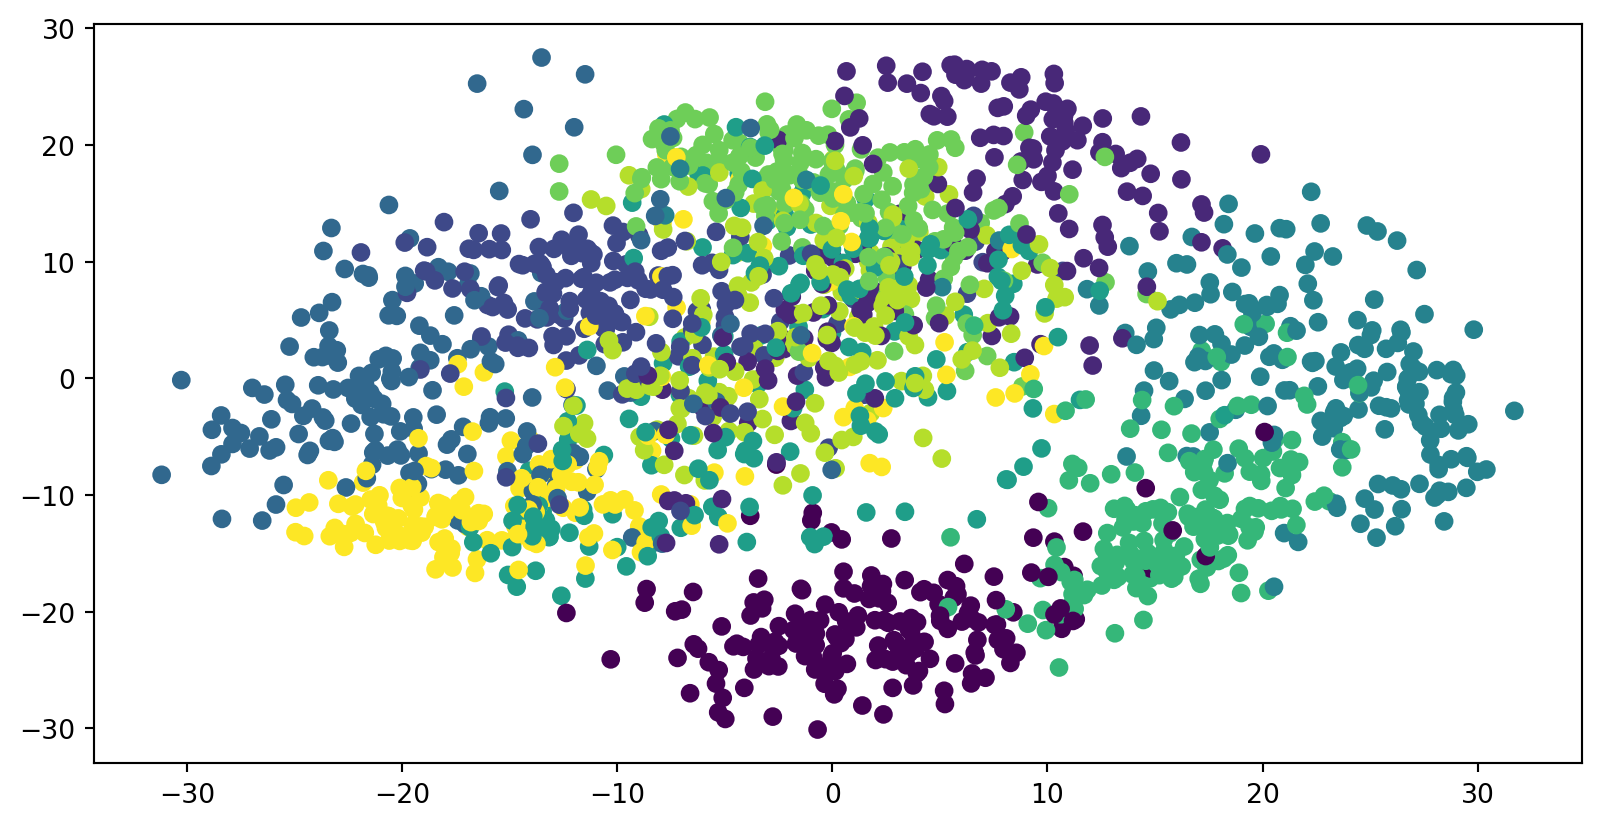
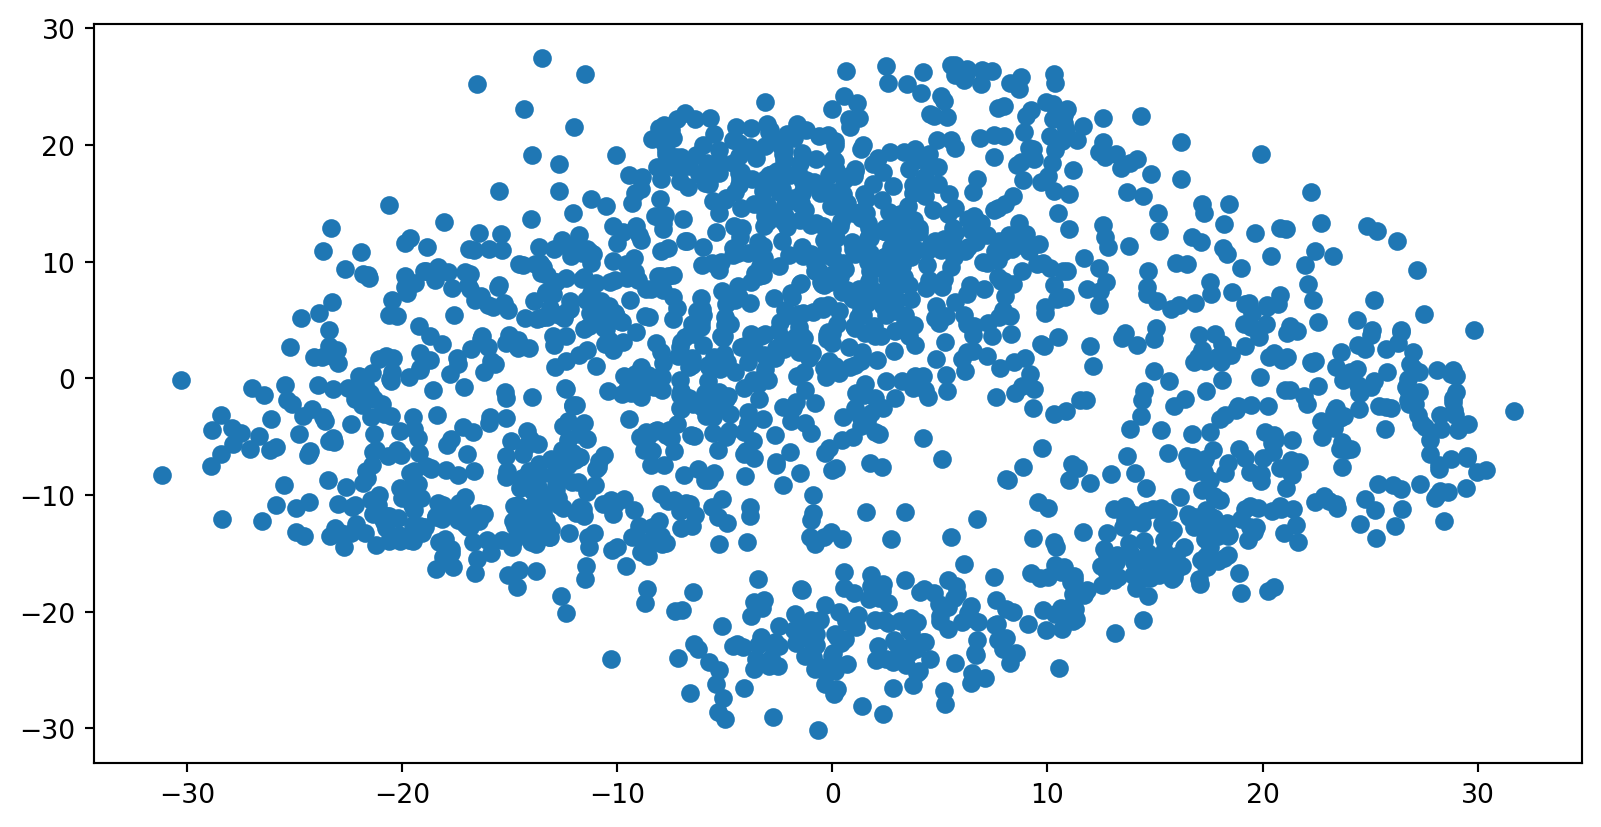
Comprehensive improvements to week8-clustering slides
Section 1 - Flow and Agenda:
- Changed "Non-linear methods" to "Non-linear Manifold Learning" for precise ML terminology

Section 2 - Clustering:
- Enhanced IRIS unlabeled plot note to emphasize unsupervised learning challenge
- Improved IRIS comparison note to explain classification vs clustering difference
- Replaced static IRIS plot with high-quality Seaborn visualization
- Added note highlighting Setosa separation and Versicolor/Virginica overlap

Section 3 - Dimensionality Reduction:
- Changed slide title to "Visualizing the Manifold Hypothesis: Images of '3' Perturbed by Non-linear Operations"
- Added note to Digits embeddings explaining linear vs non-linear comparison
- Enhanced SVD note with numerical stability explanation
- Added notes to LLE sections explaining local geometry preservation
- Added note to PCA vs LLE comparing Swiss Roll unrolling capabilities

🤖 Generated with [Claude Code](https://claude.com/claude-code)

diff --git a/2025-VisML-CSE/slides/week8-clustering.html b/2025-VisML-CSE/slides/week8-clustering.html
@@ -227,7 +227,7 @@ Claudio Silva
 <li class="fragment">Eigenvectors, eigenvalues, and covariance matrices</li>
 <li class="fragment">Singular Value Decomposition (SVD)</li>
 <li class="fragment">Local Linear Embedding (LLE)</li>
-<li class="fragment">Preview: Non-linear methods (t-SNE, UMAP)</li>
+<li class="fragment">Preview: Non-linear Manifold Learning (t-SNE, UMAP)</li>
 </ul></li>
 </ol>
 <aside class="notes">
@@ -296,7 +296,7 @@ Claudio Silva
 </section>
 <section class="slide level2">
 <h2>IRIS</h2>
-<div id="5342a8c9" class="cell" data-execution_count="1">
+<div id="50a93533" class="cell" data-execution_count="1">
 <div class="cell-output cell-output-display">
 <div>
 <figure>
@@ -306,7 +306,7 @@ Claudio Silva
 </div>
 </div>
 <aside class="notes">
-<p>This is the actual scatter plot generated from the code. Notice that without color coding by species, it’s not immediately obvious that there are three distinct groups. This is where clustering algorithms come in - they can help us discover these natural groupings automatically. In this 2D projection, we can see some structure, but the full dataset has 4 dimensions, so we’re only seeing part of the picture.</p>
+<p>This unlabeled visualization highlights the core challenge of unsupervised learning. While some structure exists in this 2D projection, the full structure in the 4D space is harder to discern. Our goal with clustering is to algorithmically discover these natural groupings that are not visually obvious without labels. Notice that without color coding by species, it’s not immediately obvious that there are three distinct groups. This is where clustering algorithms come in - they can help us discover these natural groupings automatically.</p>
 <style type="text/css">
         span.MJX_Assistive_MathML {
           position:absolute!important;
@@ -321,12 +321,17 @@ Claudio Silva
 </section>
 <section class="slide level2">
 <h2>IRIS – another look</h2>
-
-<img data-src="figs/iris-bernard.jpg" class="r-stretch"><div class="footer">
-<p>Slides based on material from Prof.&nbsp;Bernard</p>
+<div id="d1b8c35e" class="cell" data-fig-height="6" data-fig-width="9" data-execution_count="2">
+<div class="cell-output cell-output-display">
+<div>
+<figure>
+<p><img data-src="week8-clustering_files/figure-revealjs/cell-3-output-1.png" width="1335" height="885"></p>
+</figure>
+</div>
+</div>
 </div>
 <aside class="notes">
-<p>This is from Etienne Bernard’s excellent book on machine learning. Here we see a more polished visualization of the IRIS dataset with the true class labels shown. Notice how the three species form relatively distinct clusters, though there is some overlap between two of them. This visualization hints that clustering algorithms should be able to recover these groupings reasonably well.</p>
+<p>This plot, now colored by the true species labels, confirms the inherent structure we are looking to discover. Note the clear separation of the Setosa species (blue), but also the significant overlap between Versicolor (red) and Virginica (green). This overlap explains why even simple clustering methods like K-means will struggle to achieve 100% agreement with the true labels, demonstrating the practical limits of clustering even on ‘simple’ data. The visualization uses petal length and sepal width, which provide good separation between species while still showing the challenging overlap between two classes.</p>
 <style type="text/css">
         span.MJX_Assistive_MathML {
           position:absolute!important;
@@ -411,11 +416,11 @@ Claudio Silva
 <h2>IRIS - classes</h2>
 <div class="columns">
 <div class="column" style="width:50%;">
-<div id="5d091106" class="cell" data-execution_count="2">
+<div id="1781fb67" class="cell" data-execution_count="3">
 <div class="cell-output cell-output-display">
 <div>
 <figure>
-<p><img data-src="week8-clustering_files/figure-revealjs/cell-3-output-1.png" width="812" height="432"></p>
+<p><img data-src="week8-clustering_files/figure-revealjs/cell-4-output-1.png" width="812" height="432"></p>
 </figure>
 </div>
 </div>
@@ -424,7 +429,7 @@ Claudio Silva
 <p><img data-src="figs/iris-bernard-clustering-kmeans-crop.jpg"></p>
 </div></div>
 <aside class="notes">
-<p>Here we compare the true class labels (left) with the K-means clustering result (right). This is a common way to evaluate clustering when you do have ground truth labels available - though remember, in real clustering scenarios, you often don’t have labels. The comparison shows that K-means does a decent job but isn’t perfect. One species is well-separated, but the other two overlap somewhat. This is typical - clustering algorithms work best when clusters are well-separated in the feature space.</p>
+<p>This side-by-side comparison is essential for understanding clustering performance. The left shows the ground truth (true labels), and the right shows the clusters discovered by K-means. While K-means accurately isolates the well-separated cluster, it struggles with the overlapped classes, often resulting in label-switching or mixing of points. This visually demonstrates the difference between classification (predicting known labels) and clustering (discovering structure). Remember, in real clustering scenarios, you often don’t have labels - this comparison is primarily for pedagogical purposes and algorithm evaluation.</p>
 <style type="text/css">
         span.MJX_Assistive_MathML {
           position:absolute!important;
@@ -508,10 +513,7 @@ Claudio Silva
       }</style></aside>
 </section>
 <section class="slide level2">
-<h2>Dimensionality Reduction</h2>
-<ul>
-<li>Supposed a dataset of “3s” perturbed in various ways</li>
-</ul>
+<h2>Visualizing the Manifold Hypothesis: Images of ‘3’ Perturbed by Non-linear Operations</h2>
 
 <img data-src="figs/perturbed-3.jpg" class="r-stretch"><ul>
 <li><p>What operations did we perform? What’s the intrinsic dimensionality?</p></li>
@@ -556,8 +558,8 @@ Claudio Silva
 </section>
 <section class="slide level2">
 <h2>Digits - 0</h2>
-<div id="89e008c9" class="cell" data-execution_count="3">
-<div class="cell-output cell-output-display" data-execution_count="19">
+<div id="4a36db03" class="cell" data-execution_count="4">
+<div class="cell-output cell-output-display" data-execution_count="4">
 <pre><code>array([[ 0.,  0.,  5., 13.,  9.,  1.,  0.,  0.],
        [ 0.,  0., 13., 15., 10., 15.,  5.,  0.],
        [ 0.,  3., 15.,  2.,  0., 11.,  8.,  0.],
@@ -584,8 +586,8 @@ Claudio Silva
 </section>
 <section class="slide level2">
 <h2>Digits - 1</h2>
-<div id="c8c80d9e" class="cell" data-execution_count="4">
-<div class="cell-output cell-output-display" data-execution_count="20">
+<div id="0b371483" class="cell" data-execution_count="5">
+<div class="cell-output cell-output-display" data-execution_count="5">
 <pre><code>array([[ 0.,  0.,  0., 12., 13.,  5.,  0.,  0.],
        [ 0.,  0.,  0., 11., 16.,  9.,  0.,  0.],
        [ 0.,  0.,  3., 15., 16.,  6.,  0.,  0.],
@@ -612,11 +614,11 @@ Claudio Silva
 </section>
 <section class="slide level2">
 <h2>Digits</h2>
-<div id="1fead8d8" class="cell" data-execution_count="5">
+<div id="f8657cb5" class="cell" data-execution_count="6">
 <div class="cell-output cell-output-display">
 <div>
 <figure>
-<p><img data-src="week8-clustering_files/figure-revealjs/cell-6-output-1.png" width="558" height="520"></p>
+<p><img data-src="week8-clustering_files/figure-revealjs/cell-7-output-1.png" width="558" height="520"></p>
 </figure>
 </div>
 </div>
@@ -637,7 +639,7 @@ Claudio Silva
 </section>
 <section class="slide level2">
 <h2>Digits</h2>
-<div id="47ce623c" class="cell" data-execution_count="6">
+<div id="92617e0b" class="cell" data-execution_count="7">
 <div class="cell-output cell-output-stdout">
 <pre><code>Computing Random projection embedding...
 Computing Truncated SVD embedding...
@@ -656,11 +658,24 @@ Computing NCA embedding...</code></pre>
 <div class="cell-output cell-output-display">
 <div>
 <figure>
-<p><img data-src="week8-clustering_files/figure-revealjs/cell-7-output-2.png" width="763" height="409"></p>
+<p><img data-src="week8-clustering_files/figure-revealjs/cell-8-output-2.png" width="763" height="409"></p>
 </figure>
 </div>
 </div>
 </div>
+<aside class="notes">
+<p>This slide lists many popular dimensionality reduction algorithms. The figure (populated by the results) is a powerful tool for comparison. It demonstrates that the choice of algorithm—linear (like PCA/SVD) vs.&nbsp;non-linear (like t-SNE/LLE)—radically changes the resulting low-dimensional structure. This comparison motivates why we need to understand the underlying math and assumptions of each method. Notice how t-SNE creates distinct, well-separated clusters of digits, which is characteristic of non-linear manifold learning methods that preserve local neighborhood structure.</p>
+<style type="text/css">
+        span.MJX_Assistive_MathML {
+          position:absolute!important;
+          clip: rect(1px, 1px, 1px, 1px);
+          padding: 1px 0 0 0!important;
+          border: 0!important;
+          height: 1px!important;
+          width: 1px!important;
+          overflow: hidden!important;
+          display:block!important;
+      }</style></aside>
 </section>
 <section class="slide level2">
 <h2>Principal Component Analysis</h2>
@@ -851,11 +866,11 @@ Computing NCA embedding...</code></pre>
 </section>
 <section class="slide level2">
 <h2>PCA of digits</h2>
-<div id="927a2eac" class="cell" data-execution_count="7">
+<div id="892daa37" class="cell" data-execution_count="8">
 <div class="cell-output cell-output-display">
 <div>
 <figure>
-<p><img data-src="week8-clustering_files/figure-revealjs/cell-8-output-1.png" width="801" height="414"></p>
+<p><img data-src="week8-clustering_files/figure-revealjs/cell-9-output-1.png" width="801" height="414"></p>
 </figure>
 </div>
 </div>
@@ -876,11 +891,11 @@ Computing NCA embedding...</code></pre>
 </section>
 <section class="slide level2">
 <h2>PCA of digits</h2>
-<div id="21e169ba" class="cell" data-execution_count="8">
+<div id="498499a5" class="cell" data-execution_count="9">
 <div class="cell-output cell-output-display">
 <div>
 <figure>
-<p><img data-src="week8-clustering_files/figure-revealjs/cell-9-output-1.png" width="801" height="414"></p>
+<p><img data-src="week8-clustering_files/figure-revealjs/cell-10-output-1.png" width="801" height="414"></p>
 </figure>
 </div>
 </div>
@@ -915,7 +930,7 @@ Computing NCA embedding...</code></pre>
 </ul></li>
 </ul>
 <aside class="notes">
-<p>A practical issue: for high-dimensional data, computing the full covariance matrix and all its eigenvectors is computationally expensive. For 10,000 features, the covariance matrix has 100 million entries! SVD provides an efficient alternative - it can directly compute the top k principal components without forming the covariance matrix. In practice, sklearn’s PCA uses randomized SVD for efficiency. This makes PCA tractable even for very high-dimensional data.</p>
+<p>A practical issue: for high-dimensional data, computing the full covariance matrix and all its eigenvectors is computationally expensive. For 10,000 features, the covariance matrix has 100 million entries! SVD provides an efficient alternative - it can directly compute the top k principal components without forming the covariance matrix. Furthermore, SVD is generally more numerically stable than computing the eigenvalues of the covariance matrix directly, especially in the presence of noise or highly correlated features. This is why SVD is the practical computational backbone for PCA in modern machine learning libraries like scikit-learn. In practice, sklearn’s PCA uses randomized SVD for efficiency, making PCA tractable even for very high-dimensional data.</p>
 <style type="text/css">
         span.MJX_Assistive_MathML {
           position:absolute!important;
@@ -995,15 +1010,54 @@ Computing NCA embedding...</code></pre>
 <section class="slide level2">
 <h2>Preserving Local Manifold Neighborhoods</h2>
 
-<img data-src="figs/preserving-local-neighborhoods.jpg" class="r-stretch"></section>
+<img data-src="figs/preserving-local-neighborhoods.jpg" class="r-stretch"><aside class="notes">
+<p>Non-linear dimensionality reduction, particularly methods like LLE, relies on the assumption that the local geometry of the high-dimensional data is a good proxy for the global structure. As illustrated here, the goal is to find a mapping that preserves the local neighborhood relationships (who is connected to whom) in the low-dimensional space, effectively ‘unrolling’ the manifold without tearing it apart. This is fundamentally different from PCA which only preserves global variance.</p>
+<style type="text/css">
+        span.MJX_Assistive_MathML {
+          position:absolute!important;
+          clip: rect(1px, 1px, 1px, 1px);
+          padding: 1px 0 0 0!important;
+          border: 0!important;
+          height: 1px!important;
+          width: 1px!important;
+          overflow: hidden!important;
+          display:block!important;
+      }</style></aside>
+</section>
 <section class="slide level2">
 <h2>LLE</h2>
 
 <img data-src="figs/lle-algorithm.jpg" class="r-stretch"><p>https://www.science.org/doi/10.1126/science.290.5500.2323</p>
+<aside class="notes">
+<p>Local Linear Embedding (LLE) works by first finding the set of weights that best reconstructs each data point from its neighbors in the high-dimensional space. The algorithm then searches for a low-dimensional embedding where these same reconstruction weights hold true. Unlike PCA, LLE is not based on maximizing variance; it’s based entirely on preserving these local linear dependencies. This makes LLE powerful for unrolling non-linear manifolds while maintaining neighborhood structure.</p>
+<style type="text/css">
+        span.MJX_Assistive_MathML {
+          position:absolute!important;
+          clip: rect(1px, 1px, 1px, 1px);
+          padding: 1px 0 0 0!important;
+          border: 0!important;
+          height: 1px!important;
+          width: 1px!important;
+          overflow: hidden!important;
+          display:block!important;
+      }</style></aside>
 </section>
 <section class="slide level2">
 <h2>PCA vs LLE</h2>
 <p><img data-src="figs/pca-vs-lle.jpg" height="600"></p>
+<aside class="notes">
+<p>This figure is the canonical example illustrating the difference between linear (PCA) and non-linear (LLE) methods. PCA finds the direction of maximum variance, but since it is a straight line projection, it cannot ‘unroll’ the curved ‘Swiss Roll’ dataset, resulting in heavy overlap. LLE, by preserving local relationships, successfully unrolls the manifold into a clean 2D representation, demonstrating the power of non-linear methods when the intrinsic data manifold is curved. This is why we need both linear and non-linear methods in our toolkit.</p>
+<style type="text/css">
+        span.MJX_Assistive_MathML {
+          position:absolute!important;
+          clip: rect(1px, 1px, 1px, 1px);
+          padding: 1px 0 0 0!important;
+          border: 0!important;
+          height: 1px!important;
+          width: 1px!important;
+          overflow: hidden!important;
+          display:block!important;
+      }</style></aside>
 </section>
 <section class="slide level2">
 <h2>Beyond PCA: Non-linear Methods</h2>
